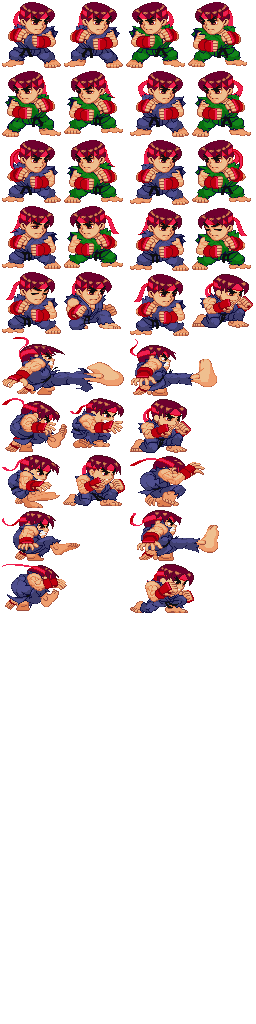
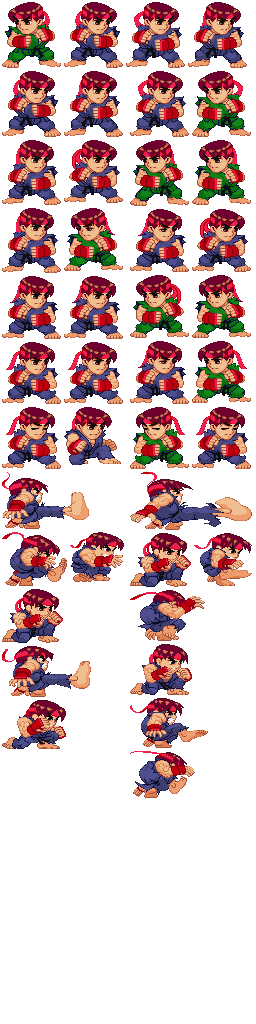
animation update

diff --git a/main.js b/main.js
@@ -13,13 +13,7 @@ var AnimatedSprite = (function () {
                 _this.currentFrame = 0;
                 _this.isCompleted = true;
             }
-            if (_this.delayFrame <= 5) {
-                _this.delayFrame++;
-            }
-            else {
-                _this.currentFrame++;
-                _this.delayFrame = 0;
-            }
+            _this.currentFrame++;
             ctx.save();
             ctx.translate(_this.x, _this.y);
             var key = _this.getFrameString();
@@ -144,7 +138,7 @@ var Ryu = (function () {
         this.isDead = false;
         this.Init = function () {
             _this.Reset();
-            _this.idleSprite = new AnimatedSprite(_this.pos, 230, 8, atlas, "ryustand");
+            _this.idleSprite = new AnimatedSprite(_this.pos, 230, 17, atlas, "ryustand");
             _this.sweepingSprite = new AnimatedSprite(_this.pos, 242, 13, atlas, "ryusweep");
         };
         this.Reset = function () {

diff --git a/src/animatedsprite.ts b/src/animatedsprite.ts
@@ -22,13 +22,13 @@ class AnimatedSprite {
             this.currentFrame = 0;
             this.isCompleted = true;
         }
-        if (this.delayFrame <= 5) {
-            this.delayFrame++;
-            }
-        else {
-            this.currentFrame++;
-            this.delayFrame = 0;
-            }
+        // if (this.delayFrame <= 1) {
+        //     this.delayFrame++;            
+        //     }
+        // else {
+        //     this.currentFrame++;
+        //     this.delayFrame = 0;
+        this.currentFrame++;    
     
         ctx.save();
         ctx.translate(this.x, this.y);

diff --git a/src/ryu.ts b/src/ryu.ts
@@ -12,7 +12,7 @@ class Ryu{
 
     public Init = (): void => {
         this.Reset();
-        this.idleSprite = new AnimatedSprite(this.pos, 230, 8, atlas, "ryustand");
+        this.idleSprite = new AnimatedSprite(this.pos, 230, 17, atlas, "ryustand");
         this.sweepingSprite = new AnimatedSprite(this.pos, 242, 13, atlas, "ryusweep");
         //this.blockingSprite = new AnimatedSprite(
         //this.deadSprite = new AnimatedSprite(
